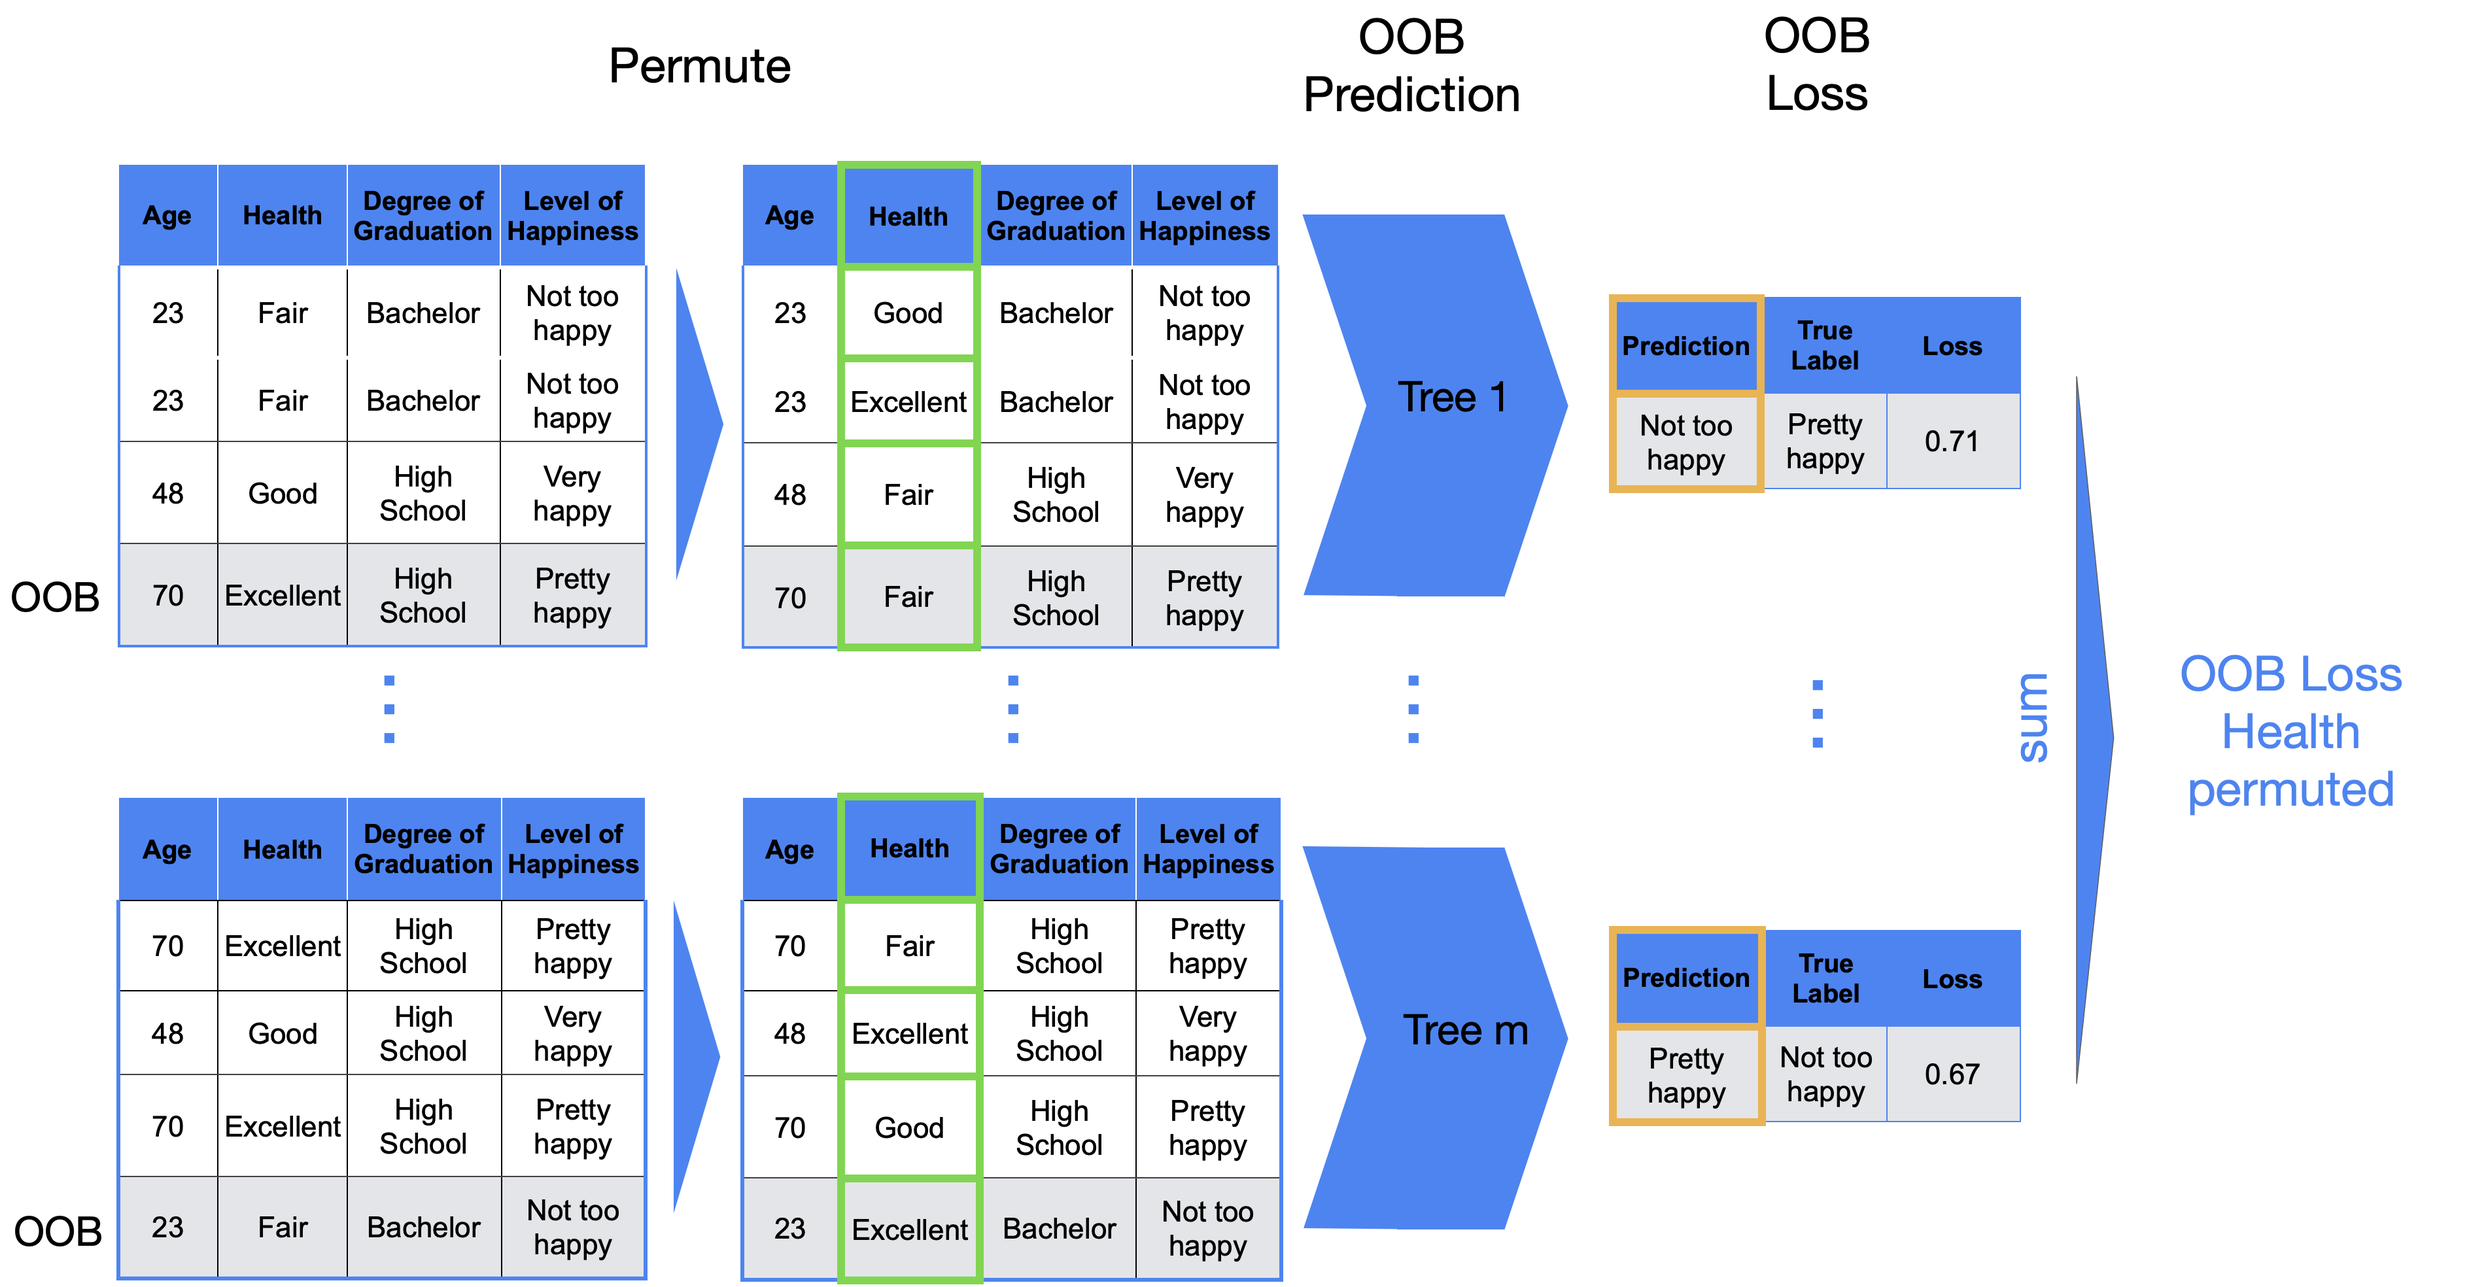
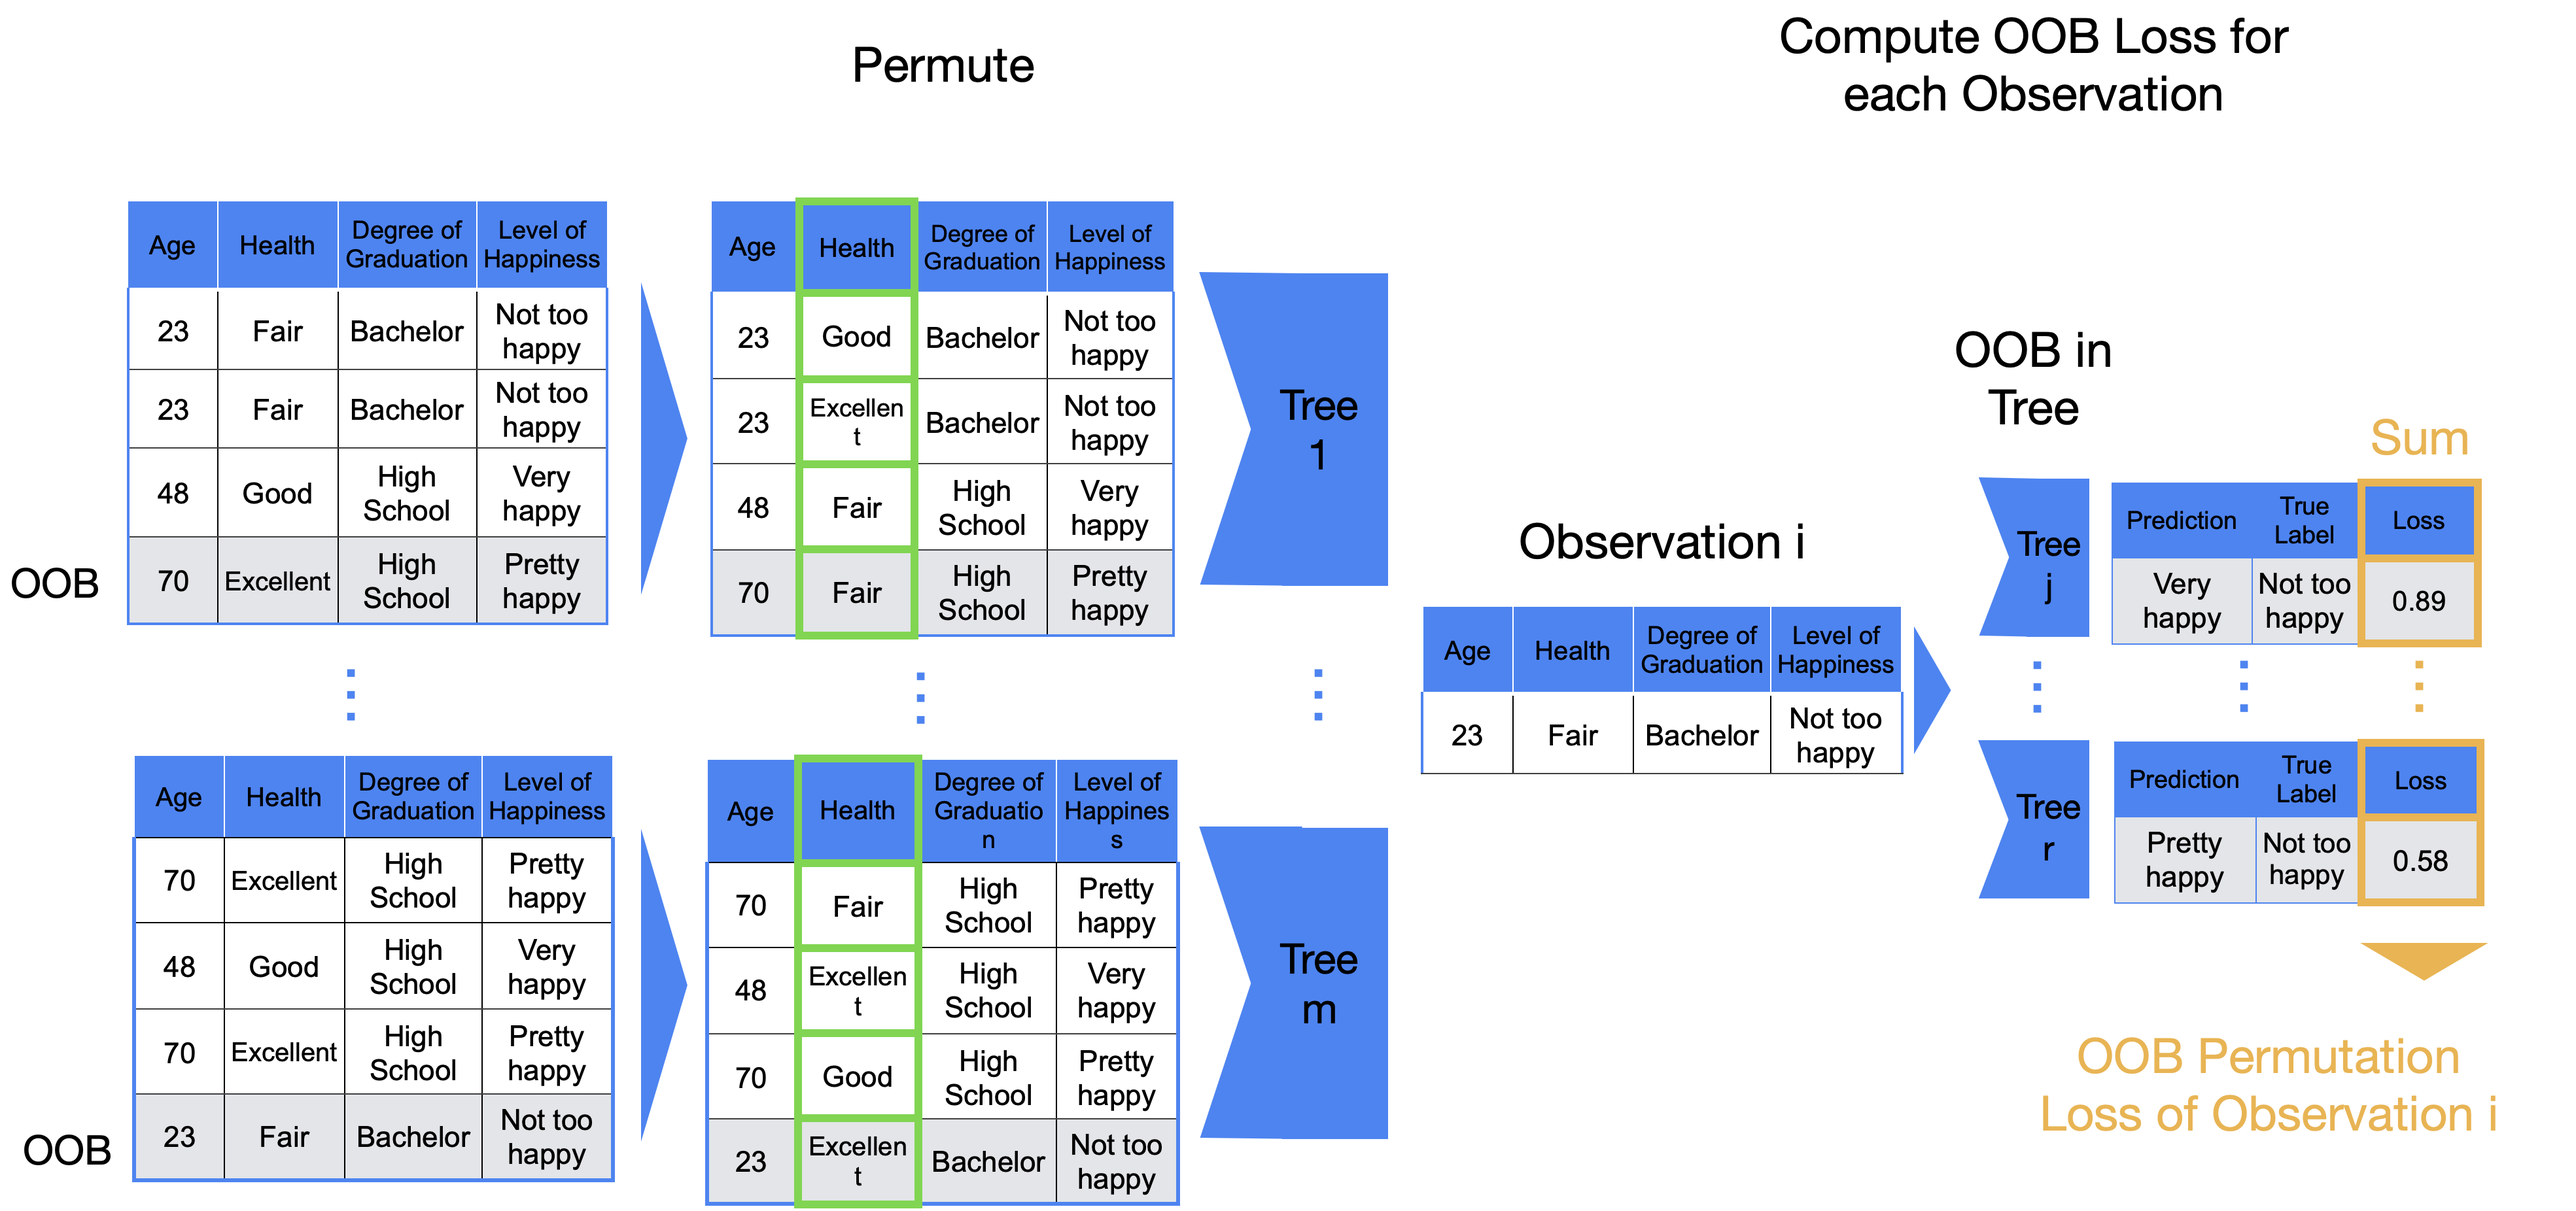
Updates from Overleaf

diff --git a/slides/cart/slides-cart-nutshell-alternative.tex b/slides/cart/slides-cart-nutshell-alternative.tex
@@ -1,0 +1,250 @@
+\documentclass[11pt,compress,t,notes=noshow, xcolor=table]{beamer}
+
+\input{../../style/preamble}
+\input{../../latex-math/basic-math.tex}
+\input{../../latex-math/basic-ml.tex}
+
+
+\newcommand{\titlefigure}{figure/cart_intro_annotated-tree.pdf}
+\newcommand{\learninggoals}{
+\item Understand basic structure of CART models
+\item Understand basic concepts used to fit CART models
+%\item You can use this slide deck either as a first overview or a final recap
+}
+
+
+\title{Introduction to Machine Learning}
+% \author{Bernd Bischl, Christoph Molnar, Daniel Schalk, Fabian Scheipl}
+\institute{\href{https://compstat-lmu.github.io/lecture_i2ml/}{compstat-lmu.github.io/lecture\_i2ml}}
+\date{}
+
+\begin{document}
+
+\lecturechapter{CART: In a nutshell}
+\lecture{Introduction to Machine Learning}
+\sloppy
+
+\begin{vbframe}{Learning and Prediction with CARTs}
+
+\begin{columns}  
+\begin{column}{0.1\textwidth} 
+\begin{center}
+\vspace{1cm}
+Training
+\end{center}
+\end{column}
+\begin{column}{0.9\textwidth} 
+\begin{center}
+%https://docs.google.com/presentation/d/1_jwVNB657IsABwu1uBogxT67VZtmKTUI/edit#slide=id.p1
+  \includegraphics[width = 0.9\textwidth]{slides/cart/figure_man/nutshell-cart-learning.png}
+\end{center}
+\end{column}
+\end{columns}
+
+\begin{columns}  
+\begin{column}{0.1\textwidth} 
+\begin{center}
+\vspace{1cm}
+Prediction
+\end{center}
+\end{column}
+\begin{column}{0.9\textwidth} 
+\begin{center}
+%https://docs.google.com/presentation/d/1VKK-QD85P_EZHpA89WgJGNqDH7J_47ou/edit#slide=id.p1
+  \includegraphics[width = 0.9\textwidth]{slides/cart/figure_man/nutshell-cart-prediction.png}
+\end{center}
+\end{column}
+\end{columns}
+
+\end{vbframe}
+
+\begin{vbframe}{What is a tree?}
+
+Basic idea: 
+\begin{itemize}
+\item Divide feature space into sub-regions.%, and 
+\item For each region, learn best constant prediction from  training data. % set by taking the average (mean), most frequent (mode), or middle value (median) of the response variable among the training examples belonging to that specific segment.
+\end{itemize}
+
+\vspace{0.5cm}
+
+    \textbf{C}lassification \textbf{A}nd \textbf{R}egression \textbf{T}rees are a class of models that can:
+  \begin{itemize}
+    \item model non-linear feature effects
+    \item facilitate interactions of features
+    \item be inherently interpreted
+  \end{itemize}
+\end{vbframe}
+
+\begin{vbframe}{What is a tree?}
+A decision tree is a set of hierarchical binary partitions, e.g., your evening planning decision (target) could be based on a decision tree:
+
+  \begin{figure}
+    \centering
+\includegraphics[width=1\textwidth, keepaspectratio]{figure/nutshell-example.pdf}
+    \end{figure}
+
+
+\end{vbframe}
+
+\begin{vbframe}{What is a tree?}
+Instead of life choices, we can predict the \texttt{Species} of flowers described in the \texttt{iris} data set using features \texttt{Sepal.Width} and \texttt{Sepal.Length}.
+%A CART can be decribed by this plot:
+  
+     \begin{figure}
+    \centering
+      % FIGURE SOURCE: No source
+      \includegraphics[height = 6.5cm, keepaspectratio]{figure/cart_intro_annotated-tree.pdf}
+    \end{figure}
+\end{vbframe}
+
+\begin{vbframe}{CART as a predictor}
+Instead of the visual description, we can also describe trees through their division of the feature space $\Xspace$ into \textbf{rectangular regions}, $Q_m$: 
+  \begin{align*}
+    \fx = \sum_{m=1}^M c_m \I(\xv \in Q_m),
+  \end{align*}
+  \begin{figure}
+    \centering
+\includegraphics[width=0.7\textwidth, keepaspectratio]{figure/tree-classif-depth-3-blacklines.pdf}
+    \end{figure}
+\end{vbframe}
+
+
+\begin{vbframe}{Tasks for CART}
+  \begin{itemize}
+
+    \item CARTs can have categorical and numerical targets.
+    \item In both cases, the leafs, i.e., the ultimate nodes, define the predictions.
+  \end{itemize}
+  
+  \begin{columns}
+\begin{column}{0.48\textwidth}
+  
+  Categorical target:
+    \begin{figure}
+    \centering
+\includegraphics[width=0.99\textwidth, keepaspectratio]{figure/tree-classif-depth3.pdf}
+    \end{figure}
+\end{column}
+\begin{column}{0.48\textwidth}
+  
+  Numerical target:
+    \begin{figure}
+    \centering
+\includegraphics[width=0.99\textwidth, keepaspectratio]{figure/tree-regr-depth3.pdf}
+    \end{figure}
+\end{column}
+\end{columns}
+  
+\end{vbframe}
+
+\begin{vbframe}{How to fit a CART}
+
+\begin{itemize} 
+\item A \emph{recursive} greedy search in the feature space optimizes CARTs
+\item In each iteration, the best split is selected% determined via empirical risk minimization
+%\item This recursive fitting looks like this, starting with iteration 1:
+\end{itemize}
+
+Iteration 1:
+
+{\centering \includegraphics[width=0.6\textwidth]{figure/tree-classif-depth1.pdf} 
+
+}
+
+\end{vbframe}
+
+\begin{vbframe}{How to fit a CART}
+
+Iteration 2:
+
+{\centering \includegraphics[width=0.58\textwidth]{figure/tree-classif-depth2.pdf} 
+
+}
+
+Iteration 3:
+
+{\centering \includegraphics[width=0.58\textwidth]{figure/tree-classif-depth3.pdf} 
+
+}
+
+\end{vbframe} 
+
+\begin{vbframe}{How to fit a CART}
+\begin{itemize}
+\item This procedure can run until each observation has its own leaf.
+\item Then, the tree will not generalize well and overfit:
+\end{itemize}
+
+{\centering \includegraphics[width=0.58\textwidth]{figure/tree-overfitting-prediction.pdf} 
+
+}
+
+\begin{itemize}
+\item Thus, we need techniques to keep the tree small and informative.
+%\item In fact, we already used some of these techniques for fitting the trees in this chapter.
+\end{itemize}
+
+$\Rightarrow$ In practice, trees are often used as base learners for ensemble learners like Random Forests.
+
+\end{vbframe}
+
+% \begin{vbframe}{How to fit a CART}
+% \begin{itemize}
+% \item There are two options for this:
+% \begin{itemize}
+% \item Stop the fitting at some point
+% \item Fit a deep tree and shorten ("prune") it afterwards
+% \end{itemize}
+% \item The fitting is typically stopped either by specifying a maximum depth of the tree or minimum number of observations per leaf.
+% \item Another option is to specify a minimum decrease of the empirical risk that a split has to exceed.
+% %\item A common library for fitting trees includes the following options:
+% \end{itemize}
+
+% % Insert code with listings does not work
+% %{\centering \includegraphics[width=0.9\textwidth]{figure_man/rpart.control-options.png} 
+
+% %}
+
+% \end{vbframe} 
+
+% \begin{vbframe}{Trees in Practice}
+
+% \begin{itemize}
+% \item Trees are an attractive learner:
+% \begin{itemize}
+% \item (Usually) cheap to compute
+% \item Interpretable
+% \item Can capture complex feature effects
+% \end{itemize}
+% \item However, CART has high variance, hence not the best predictor
+% \end{itemize}
+% $\Rightarrow$ In practice, trees are mostly used as base learners for ensemble learners like Random Forests.
+% \end{vbframe}
+
+
+
+
+
+% % BB: as we are not really talking too much about impurity anymore, I took this out
+% % <<splitcriteria-plot, results='hide', fig.height=5>>=
+% % Colors = pal_3
+% % par(mar = c(5.1, 4.1, 0.1, 0.1))
+% % p = seq(1e-6, 1-1e-6, length.out = 200)
+% % entropy = function(p) (p * log(p) + (1 - p) * log(1 - p))/(2 * log(0.5))
+% % gini = function(p) 2 * p * (1 - p)
+% % missclassification = function(p) (1 - max(p, 1 - p))
+% % plot(p, entropy(p), type = "l", col = Colors[1], lwd = 1.5, ylab = "",
+% %   ylim = c(0, 0.6), xlab = expression(hat(pi)[Nk]))
+% % lines(p, gini(p), col = Colors[2], lwd = 1.5)
+% % lines(p, sapply(p, missclassification), col = Colors[3], lwd = 1.5)
+% % legend("topright", c("Gini Index", "Entropy", "Misclassification Error"),
+% %        col = Colors[1:3], lty = 1)
+% % @
+
+
+
+
+
+\endlecture
+\end{document}

diff --git a/slides/forests/slides-forests-nutshell.tex b/slides/forests/slides-forests-nutshell.tex
@@ -172,28 +172,30 @@ Several options, e.g., measure contribution of feature to model:
 \includegraphics[width = \textwidth]{figure_man/nutshell-random-forest-feature-importance_split.png}
 \end{vbframe}
 
-% \begin{vbframe}{FEATURE IMPORTANCE}
+\begin{vbframe}{FEATURE IMPORTANCE}
 % \begin{itemize}
 %     \item \small Measure based on permutations of OOB obs (observations not included in bootstrap sample)
 %     \item \small Difference between loss of permuted-model prediction and original model prediction
 % \end{itemize}
 
-
+ \begin{itemize}
+        \item \small Measure based on OOB Loss
+    \end{itemize}
 
 \begin{center}
-%https://docs.google.com/presentation/d/1HEZcKzK3mkxyBFXAO5PExgbAuRQr9UQW/edit#slide=id.p1
-    \includegraphics[width = 0.75\textwidth]{figure_man/nutshell-randomforest-OOB_1.png}
+%https://docs.google.com/presentation/d/1AgOTP5Yt1uy6CQd3VdZqZlRL8nitGAUj/edit#slide=id.p1
+    \includegraphics[width = 0.95\textwidth]{figure_man/nutshell-randomforest-OOB_1.png}
 \end{center}
 
 
-% \end{vbframe}
+\end{vbframe}
 
 
 
 \begin{vbframe}{FEATURE IMPORTANCE}
 \begin{center}
-%https://docs.google.com/presentation/d/1vvbTcxAIbONs8oxll6rNzVB_9Q8KzcP9/edit#slide=id.p1
-    \includegraphics[width = 0.75\textwidth]{figure_man/nutshell-randomforest-OOB_2.png}
+%https://docs.google.com/presentation/d/11Xzf3zOIcGsJgkVRdiNCM5DY9jeaadyW/edit#slide=id.p1
+    \includegraphics[width = 0.95\textwidth]{figure_man/nutshell-randomforest-OOB_2.png}
 \end{center}
 
 
@@ -201,7 +203,7 @@ Several options, e.g., measure contribution of feature to model:
 % \begin{center}
 % Feature Importance = OOB Loss Health Permuted - OOB Loss Health
 % \end{center}
-% \end{vbframe}
+\end{vbframe}
 
 
 % ------------------------------------------------------------------------------
